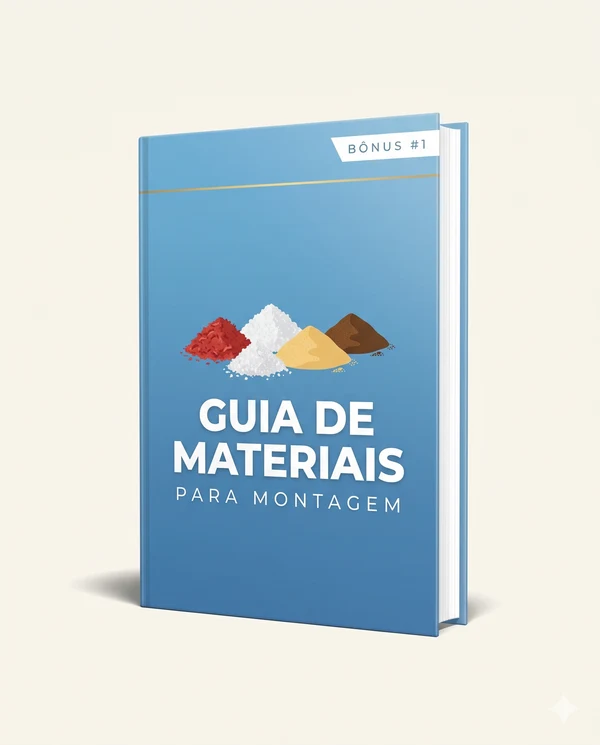
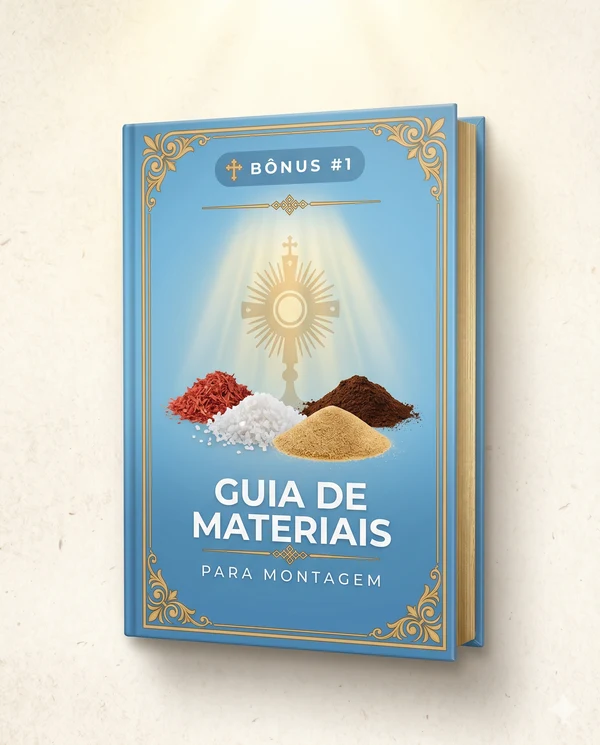
Substitui SVG placeholders dos 4 bônus pelas imagens devocionais do Gemini
User reportou que os SVGs e os primeiros mockups eram genéricos demais
— faltava o caráter sacro/católico. Prompts revisados com bordas
ornamentais douradas (estilo livro de oração), iconografia católica
integrada, raios divinos e selo "✚ BÔNUS #X".

4 PNGs originais (1856x2304, ~6.5–7MB cada) → WebP 600x745 via sharp:
  bonus-1.webp  44KB   Custódia + 4 montinhos coloridos (sky-blue)
  bonus-2.webp  41KB   Rosácea de vitral 6 cores (coral)
  bonus-3.webp  40KB   3 figuras ajoelhadas em oração (gold)
  bonus-4.webp  51KB   Cruz central + cálices ornamentais (navy)

Total: 176KB (vs ~27MB originais — redução de 99%).

HTML: srcs atualizados (bonus-2/3/4 deixaram de apontar pra .svg);
dimensões trocadas de 320x400 → 600x745.

Cleanup: 4 PNGs originais e 3 SVGs placeholders restantes removidos.

diff --git a/index.html b/index.html
@@ -286,10 +286,10 @@
                 </article>
 
                 <article class="bonus-card">
-                    <img src="images/bonus-2.svg"
+                    <img src="images/bonus-2.webp"
                          alt="Bônus 2 — Guia de Combinação de Cores"
                          class="bonus-image"
-                         width="320" height="400"
+                         width="600" height="745"
                          loading="lazy">
                     <h3 class="bonus-card-title">Guia de Combinação<br>de Cores</h3>
                     <p class="bonus-card-text">
@@ -302,10 +302,10 @@
                 </article>
 
                 <article class="bonus-card">
-                    <img src="images/bonus-3.svg"
+                    <img src="images/bonus-3.webp"
                          alt="Bônus 3 — Passo a Passo para Organizar a Equipe"
                          class="bonus-image"
-                         width="320" height="400"
+                         width="600" height="745"
                          loading="lazy">
                     <h3 class="bonus-card-title">Passo a Passo<br>para Organizar a Equipe</h3>
                     <p class="bonus-card-text">
@@ -318,10 +318,10 @@
                 </article>
 
                 <article class="bonus-card">
-                    <img src="images/bonus-4.svg"
+                    <img src="images/bonus-4.webp"
                          alt="Bônus 4 — Moldes Extras de Símbolos Religiosos"
                          class="bonus-image"
-                         width="320" height="400"
+                         width="600" height="745"
                          loading="lazy">
                     <h3 class="bonus-card-title">Moldes Extras<br>de Símbolos Religiosos</h3>
                     <p class="bonus-card-text">
